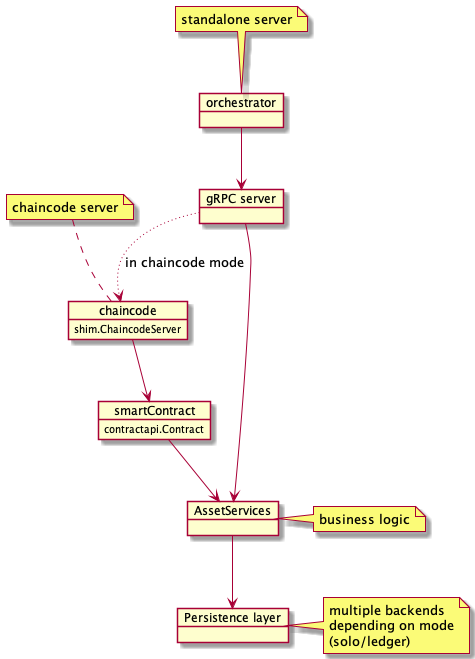
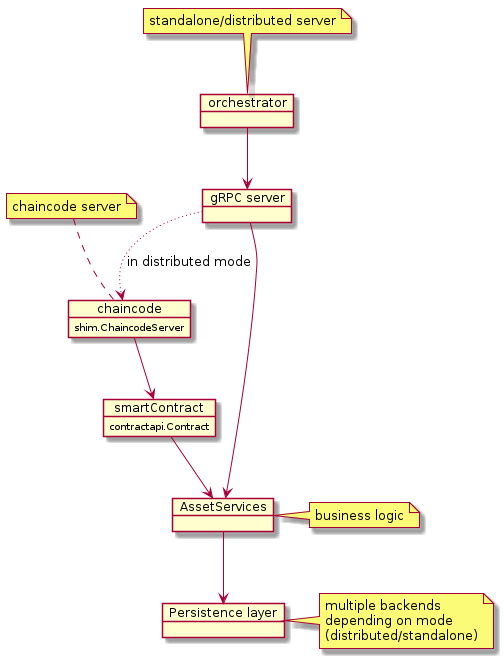
refactor: rename chaincode to distributed (#93)

Changed region(s): [[0.0, 0.0, 1.0, 1.0], [0.1768, 0.3945, 0.2063, 0.4249]]

diff --git a/server/server.go b/server/server.go
@@ -61,15 +61,15 @@ func main() {
 
 	common.InitLogging()
 
-	flag.BoolVar(&standaloneMode, "standalone", true, "Run the chaincode in standalone mode")
-	flag.BoolVar(&standaloneMode, "s", true, "Run the chaincode in standalone mode (shorthand)")
+	flag.BoolVar(&standaloneMode, "standalone", true, "Run the server in standalone mode")
+	flag.BoolVar(&standaloneMode, "s", true, "Run the server in standalone mode (shorthand)")
 
 	flag.Parse()
 
 	mode, ok := common.GetEnv("MODE")
 	if ok {
 		switch mode {
-		case "chaincode":
+		case "distributed":
 			standaloneMode = false
 		case "standalone":
 			standaloneMode = true

diff --git a/server/common/env.go b/server/common/env.go
@@ -12,9 +12,6 @@
 // See the License for the specific language governing permissions and
 // limitations under the License.
 
-// server binary exposing a gRPC interface to manage distributed learning asset.
-// It can run in either standalone or distributed mode.
-// In standalone mode it handle all the logic while in distributed mode everything is delegated to a chaincode.
 package common
 
 import (

diff --git a/server/tls.go b/server/tls.go
@@ -12,9 +12,6 @@
 // See the License for the specific language governing permissions and
 // limitations under the License.
 
-// server binary exposing a gRPC interface to manage distributed learning asset.
-// It can run in either standalone or distributed mode.
-// In standalone mode it handle all the logic while in distributed mode everything is delegated to a chaincode.
 package main
 
 import (

diff --git a/docs/architecture.md b/docs/architecture.md
@@ -6,20 +6,20 @@ This repository contains two binaries: `orchestrator` and `chaincode`.
 
 ![](./schemas/archi.png)
 
-When running in independent (or solo) mode, the only dependency is a couchdb instance for persistence.
-Here is a basic overview of the solo mode execution mode:
+When running in standalone mode, the only dependency is a PostgreSQL instance for persistence.
+Here is a basic overview of the standalone execution mode:
 
-![](./schemas/solo.png)
+![](./schemas/standalone.png)
 
 The chaincode comes into action when running in a hyperledger-fabric context,
 where it is deployed as a regular fabric chaincode.
 In that situation, the orchestrator lean on the chaincode and act as a facade,
 its sole purpose is to convert gRPC calls into chaincode invocation.
 
-![](./schemas/chaincode.png)
+![](./schemas/distributed.png)
 
 By doing so, we always expose the same interface (gRPC) to external callers.
-That means the solo or chaincode deployments can be swapped without any impact on callers.
+That means the standalone or distributed deployments can be swapped without any impact on callers.
 
 However please note that there is no data migration.
 Since persistence layers are different from a mode to another,
@@ -37,7 +37,7 @@ switching modes will result in a full reset.
 
 ## Common lib
 
-Since both the standalone orchestrator and the chaincode have to manipulate the assets,
+Since both the standalone orchestrator and the distributed orchestrator have to manipulate the assets,
 it makes sense that they rely on the same common lib; which you can find in the `lib` directory.
 
 It provides abstractions to manipulate the assets and implement your own persistence layer (`persistence.DBAL`).
@@ -48,7 +48,7 @@ You'll also find in this directory the validation implementation for each asset.
 The business logic to handle those assets is defined in `lib/service`,
 where each asset is managed by a dedicated service.
 
-Here is an overview of the orchestration part, which is completely independent of the execution mode (solo or ledger):
+Here is an overview of the orchestration part, which is completely independent of the execution mode (standalone or distributed):
 
 ![](./schemas/orchestration.png)
 
@@ -56,14 +56,14 @@ To avoid tight coupling, the `Provider` implements a dependency injection patter
 so that an asset service can call other services.
 
 There are two implementations of the DBAL interface:
-Postgresql in solo mode and LedgerDB when running as chaincode.
+Postgresql in standalone mode and LedgerDB when running in distributed mode.
 
 ## Event dispatch
 
 Consumers may need to react to events.
 To that end, the orchestrator will emit events on an AMQP broker (rabbitmq).
 
-When running in chaincode mode, there will be a conversion between ledger events from the chaincode
+When running in distributed mode, there will be a conversion between ledger events from the chaincode
 and events emitted by the orchestrator.
 
 ![](./schemas/events.png)
@@ -77,15 +77,15 @@ Events are pushed in a queue during the transaction, and dispatched once the tra
 
 ![](./schemas/event-dispatch-standalone.png)
 
-### Chaincode execution
+### Distributed execution
 
-In chaincode mode, events are stored during the transaction processing and _emitted_ once
+In distributed mode, events are stored during the transaction processing and _emitted_ once
 in the [AfterTransaction hook](https://github.com/hyperledger/fabric-contract-api-go/blob/master/tutorials/using-advanced-features.md#transaction-hooks).
 This address a limitation of fabric: [only one event can be set per transaction](https://github.com/hyperledger/fabric-chaincode-go/blob/f8ef75b1771978c17ed56e52b5bfc22d4bdae5e3/shim/interfaces.go#L344-L350).
 
 The workflow is represented below:
 
-![](./schemas/event-dispatch-standalone.png)
+![](./schemas/event-dispatch-distributed.png)
 
 ### Rabbitmq routing
 

diff --git a/charts/orchestrator/README.md b/charts/orchestrator/README.md
@@ -62,8 +62,8 @@ The following table lists the configurable parameters of the orchestrator chart 
 | `orchestrator.image.tag`                      | `orchestrator` image tag                                                                                                                                                      | *Chart version*                                                                                 |
 | `orchestrator.image.pullPolicy`               | Image pull policy                                                                                                                                                             | `IfNotPresent`                                                                                  |
 | `orchestrator.logLevel`                       | Orchestrator log level                                                                                                                                                        | `DEBUG`                                                                                         |
-| `orchestrator.mode`                           | Orchestrator mode. Can be either "standalone" or "chaincode".                                                                                                                 | `standalone`                                                                                    |
-| `orchestrator.chaincode`                      | Orchestrator chaincode (only used in chaincode mode)                                                                                                                          | `mycc`                                                                                          |
+| `orchestrator.mode`                           | Orchestrator mode. Can be either "standalone" or "distributed".                                                                                                                 | `standalone`                                                                                    |
+| `orchestrator.chaincode`                      | Orchestrator chaincode (only used in distributed mode)                                                                                                                          | `mycc`                                                                                          |
 | `orchestrator.verifyClientMSPID`              | If true, validate incoming gRPC requests by checking that the `mspid` header matches the subject organization of the client SSL certificate. See [MSPID check](#MSPID-check). | `true`                                                                                          |
 | `orchestrator.tls`                            | Orchestrator TLS options. See [TLS](#TLS).                                                                                                                                    |                                                                                                 |
 | `orchestrator.tls.enabled`                    | If true, enable TLS for the orchestrator gRPC endpoint                                                                                                                        | `false`                                                                                         |

diff --git a/README.md b/README.md
@@ -51,8 +51,8 @@ database to persist its data and a [rabbitmq](https://www.rabbitmq.com/) broker 
 
 To launch the orchestrator:
 ```bash
-skaffold dev -p solo
-skaffold run -p solo
+skaffold dev -p standalone
+skaffold run -p standalone
 ```
 
 Or
@@ -70,9 +70,9 @@ grpcurl -insecure orchestrator.node-1.com:443 list
 
 You can also deploy [connect-backend](https://github.com/owkin/connect-backend/tree/orchestrator) (note that this is the `orchestrator` branch) with a `skaffold dev` or `skaffold run`
 
-### Chaincode mode
+### Distributed mode
 
-In chaincode mode, the orchestrator only requires a matching chaincode:
+In distributed mode, the orchestrator only requires a matching chaincode:
 So you need to build the chaincode image (from this repo) to be used in `hlf-k8s` in your k8s cluster
 
 ```bash
@@ -85,15 +85,15 @@ Make sure you deploy [connect-hlf-k8s](https://github.com/owkin/connect-hlf-k8s/
 Then, in the orchestrator repo:
 
 ```bash
-skaffold dev -p chaincode -p -solo
-skaffold run -p chaincode -p -solo
+skaffold dev -p distributed -p -standalone
+skaffold run -p distributed -p -standalone
 ```
 
 Or
 
 ```bash
-ORCHESTRATOR_MODE="chaincode" skaffold dev
-ORCHESTRATOR_MODE="chaincode" skaffold run
+ORCHESTRATOR_MODE="distributed" skaffold dev
+ORCHESTRATOR_MODE="distributed" skaffold run
 ```
 
 Assuming `orchestrator.node-1.com` and `orchestrator.node-2.com` are pointing to your local k8s cluster IP (edit your `/etc/hosts` file for that), the following command should list available services:

diff --git a/docs/api.md b/docs/api.md
@@ -2,16 +2,16 @@
 
 ## Common interface
 
-The orchestrator should behave the same, whether it runs as a standalone or as a chaincode powered one.
+The orchestrator should behave the same, whether it runs as in standalone or distributed mode.
 
-The interface is the same, however additional headers might be required in chaincode mode.
+The interface is the same, however additional headers might be required in distributed mode.
 
 ## Consuming the gRPC API
 
 When running in development mode, the orchestrator exposes a gRPC endpoint on port 9000.
 gRPC reflection is enabled, and protobuf definitions are in [lib/assets](../lib/assets) directory.
 
-**chaincode mode**: requests **MUST** have the following 3 headers set:
+**distributed mode**: requests **MUST** have the following 3 headers set:
 - mspid, example `MyOrg1MSP`
 - channel, example `mychannel`
 - chaincode, example `mycc`

diff --git a/docs/asset-dev.md b/docs/asset-dev.md
@@ -74,7 +74,7 @@ This *AssetAPI* interface is used by both the smartcontract and the grpc server.
 #### Unit testing
 
 There is a *MockServiceProvider* defined in `lib/service` module, it should be updated to implement *AssetServiceProvider*.
-You can also define a **MockAssetService** for future use by other tests (chaincode and standalone gRPC service).
+You can also define a **MockAssetService** for future use by other tests (distributed and standalone gRPC service).
 
 There are also helpers defined in `github.com/owkin/orchestrator/lib/persistence/testing` to mock the persistence layer.
 
